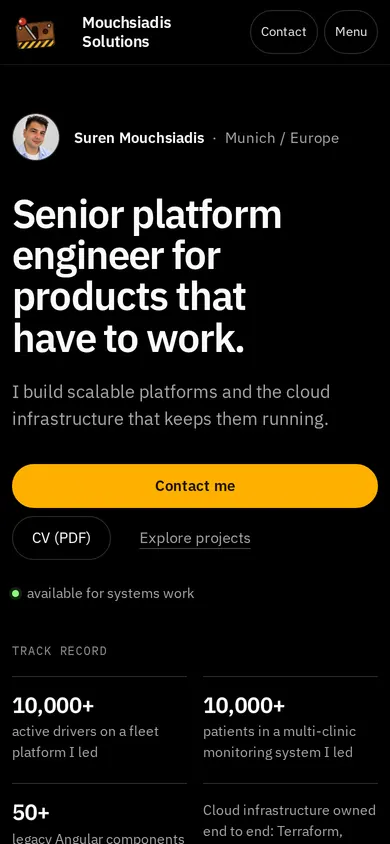
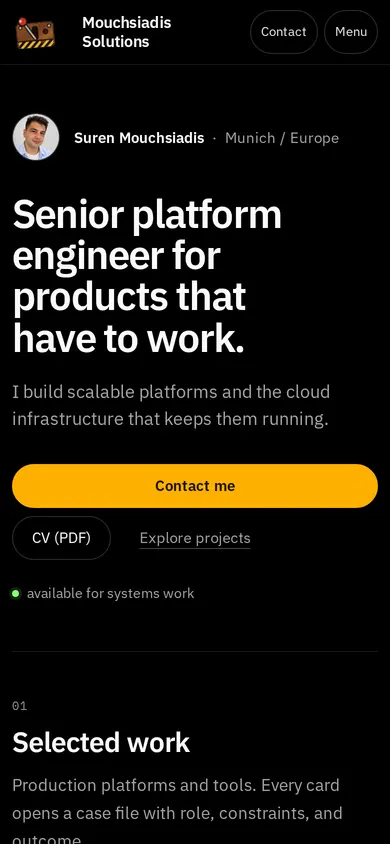
docs: record the hero removal, the terminal performance rule and fresh screenshots

Changed region(s): [[0.0308, 0.7701, 0.9538, 1.0], [0.2154, 0.7701, 0.2462, 0.8009]]

diff --git a/docs/visual-design.md b/docs/visual-design.md
@@ -41,7 +41,7 @@ This section supersedes the October direction wherever they conflict. The rest o
 
 - **Palette and type.** Pure black, `#e5e5e5` text and `#1c1c1c` hairlines. Amber appears only on the one primary action per view, and a small P1-green dot marks LIVE. Type is IBM Plex Sans 600 for headings and Plex Mono for labels and indices, so the Plex superfamily is the brand link between the views. Montserrat never loads in this view.
 - **Landing order.** One column of about 54rem:
-  1. hero: photo avatar, name and location, the English title headline, general line, actions, availability, track record as a 2×2 grid
+  1. hero: photo avatar, name and location, the English title headline, general line, actions, availability (the track record and direct email line were removed by the owner on 22 November 2026)
   2. Selected work as rows (16:10 screenshot or the record's pixel glyph, title, LIVE, eyebrow, summary, stack)
   3. open source
   4. Games rows
@@ -63,7 +63,19 @@ This section supersedes the October direction wherever they conflict. The rest o
    - Every panel and case file opens with a real prompt (`suren@ms-86:~$ ls ~/work --live`, `cat ypay/README.md`) and a blinking block cursor. The prompts are `aria-hidden`.
    - The status line is now a tmux bar: session, window list following the active panel, LIVE count, and a Munich clock.
 4. **Background texture.** Film grain (an SVG turbulence data URI) and a faint aperture-grille stripe.
-5. **Refresh and boot.** A slow 9s refresh band runs behind the content. The power-on now opens as a dot, then a line, then a bloom (760ms), and the status bar shows a three-part POST line for about 1.4s.
+5. **Boot.** The power-on opens as a dot, then a line, then a bloom (760ms), and the status bar shows a three-part POST line for about 1.4s.
+
+**Performance fix (22 November 2026).**
+
+- The first release also had a slow refresh band, which animated `background-position` across the glass. In a Chrome trace it re-rasterized the whole screen every frame: the idle terminal ran at 14 fps, and more than 90% of frames dropped during scroll, card hover, drag and tab switches. The band was removed.
+- The tab-switch "phosphor wake" now fades opacity instead of animating `filter: brightness`.
+- In the fitted console, the panel area has its own compositor layer.
+- Measured on a local build at 1440×900:
+  - idle at 60 fps;
+  - 0 dropped frames during scroll, tab switches and hover;
+  - 1 dropped frame during a card drag;
+  - raster work about 10× lower.
+- `tests/performance.spec.ts` guards against regressions. The rule is that decorative motion animates only `transform` or `opacity` on small elements.
 
 **References for this pass.**
 
@@ -84,9 +96,9 @@ This section supersedes the October direction wherever they conflict. The rest o
 
 **Verified, 22 November 2026.**
 
-- `npm run validate`: 0 Astro/TypeScript errors, 297 browser tests passed, 0 failed.
+- `npm run validate`: 0 Astro/TypeScript errors, 298 browser tests passed, 0 failed (after the performance fix and track-record removal).
 - The existing suite runs in the terminal view through `tests/terminal-view.json`. `tests/simple-view.spec.ts` covers the default view, the switch, `?view=`, axe, a 6-viewport × 4-locale fit and primary matrix, the case-file images and the lightbox.
-- Budgets: JS 8.9 KB, CSS 25.8 KB and inline art 8.1 KB gzipped.
+- Budgets: JS 8.9 KB, CSS 25.4 KB and inline art 8.1 KB gzipped.
 - Screenshots of both views and the new case files are in [design-audit/simple-view](./design-audit/simple-view/).
 - New native-review copy (ru/de/ge): the switch tag and hint, the case-file headings, all six new records, the Last Standard alt text and the architecture captions.
 
@@ -130,7 +142,7 @@ Earlier references from the October 2026 audit still apply: [Practical Typograph
 - **Direction.** Three concepts were built as mockups at 1440×900 and 390×844: A "Phosphor Restore", B "Instrument Console" (keycaps, dot-matrix registers, a 1.48 KB WebGL scope) and C "Field Dossier" (greenbar printouts, index cards, manila folders). The owner chose A. B's WebGL scope was not shipped.
 - **The hand.** The four-up tilted row cannot return without breaking two real fixes: the 13rem reader lane and the 230px minimum card width. At 1440 the fitted deck shows three cards per row and at 1120–1280 two. The tilt returns as a static alternating fan (±0.8° and a 6px stagger) when motion is allowed. Cards never overlap, never move under the pointer, and lie flat under reduced motion.
 - **Headline.** The owner approved "Senior platform engineer for products that have to work." The job title stays in English in every locale (owner decision); only the rest of the sentence is translated, and Georgian uses a colon form.
-- **Body and track record.** One general line ("I build scalable platforms and the cloud infrastructure that keeps them running.") replaces a project-specific description; no single project is described in depth in the hero. A short "Track record" list follows the actions. It comes from `impact` in `src/lib/content.ts`, where each line names the experience entries that state its facts, and a test checks every figure against them.
+- **Body and track record.** *(Track record and direct email line removed by the owner on 22 November 2026; the rest stands.)* One general line ("I build scalable platforms and the cloud infrastructure that keeps them running.") replaces a project-specific description; no single project is described in depth in the hero. A short "Track record" list follows the actions. It comes from `impact` in `src/lib/content.ts`, where each line names the experience entries that state its facts, and a test checks every figure against them.
 - **Proof.** The first-viewport proof is the Work records with `live: true` (YPay, YDesk, NeoPoints, Grindlike, Raid Signal), linked to their case files, with the count derived from the content model. Only the count carries LIVE; rows do not repeat it. On phones each row shows art and title, so the intro and track record follow within the first scroll. The owner preferred projects to numbers, so the 10,000+ driver figure stays in Experience.
 - **Facts.** Location and availability are owner-confirmed and live in `profile` in `src/lib/content.ts`. No testimonials, client logos, response times or booking links are shown; none were provided.
 - **Contact.** Every email action uses one address and a subject that names its origin. The address is always visible as text beside a copy button, because `mailto:` can do nothing without a mail client.
@@ -151,7 +163,7 @@ Earlier references from the October 2026 audit still apply: [Practical Typograph
 ## Fast Path and Conversion
 
 - **One primary per view.** The hero has one filled amber action, "Contact me". "CV (PDF)" is outlined and "Explore projects" is a link. The header "Contact" key and Backlog Breaker's "Start" stay secondary. The contact panel's primary is "Email me" and a case file's primary is "Email me about {project}".
-- **Hero.** It names Suren and the location (from `profile`), states the approved positioning in one general line, offers the actions, lists the track record, and shows live proof. A direct email line names every engagement ("projects, contract work, consulting or a role") and shows the address. The owner-confirmed availability sits beneath as a status line.
+- **Hero.** It names Suren and the location (from `profile`), states the approved positioning in one general line, offers the actions and shows live proof. The owner-confirmed availability sits beneath as a status line. (The track record and the direct email line were removed on 22 November 2026; the address stays in Contact and the case-file calls to action.)
 - **Contact panel.** An "Email me" action with a subject, the visible address with a copy button, a short "useful to include" list, then LinkedIn, GitHub and the CV.
 - **Case files.** The header shows evidence: cover, number, suit, LIVE, outcome, role and stack. Its product and source links are secondary, plus a link down to the call to action. Previous/next navigation follows the body. The file always ends with the contextual call to action.
 - **Open-source showcase.** One "Open case file" button per project; the product and source links are quiet inline links.

diff --git a/docs/architecture.md b/docs/architecture.md
@@ -24,8 +24,8 @@ The site has four public concerns:
 ## Source Files
 
 - `src/pages/[locale]/index.astro`
-  One landing DOM for both views. In the Simple view the console chrome, hero proof, card hand and game are hidden; the hero, track record, Selected work rows (`WorkRows.astro`), Games rows, Experience, Notes and Contact read as one column. In the terminal view it is the landing page inside the CRT glass, described below. Each panel opens with a decorative `TermPrompt` and the status line is a tmux bar (window list, LIVE count, Munich clock) driven by `terminal.ts`.
-  Terminal view: The hero names Suren and his location, states the positioning and offers one primary action (Contact), CV and Explore. Then come live proof (the `live: true` Work records), a direct email line and the owner-confirmed availability, followed by the open-source showcase and Backlog Breaker. The page also holds the Work and Games card decks, experience, notes, and contact. Contact has an email action with a subject, the visible address and a copy button, a "useful to include" list, and the CV. Desktop panels: Overview, Work, Games, Experience, Notes, Contact. `#cv` is an alias for Contact.
+  One landing DOM for both views. In the Simple view the console chrome, hero proof, card hand and game are hidden; the hero (headline, general line, actions, availability), Selected work rows (`WorkRows.astro`), Games rows, Experience, Notes and Contact read as one column. In the terminal view it is the landing page inside the CRT glass, described below. Each panel opens with a decorative `TermPrompt` and the status line is a tmux bar (window list, LIVE count, Munich clock) driven by `terminal.ts`.
+  Terminal view: The hero names Suren and his location, states the positioning and offers one primary action (Contact), CV and Explore. Then come live proof (the `live: true` Work records) and the owner-confirmed availability, followed by the open-source showcase and Backlog Breaker. The page also holds the Work and Games card decks, experience, notes, and contact. Contact has an email action with a subject, the visible address and a copy button, a "useful to include" list, and the CV. Desktop panels: Overview, Work, Games, Experience, Notes, Contact. `#cv` is an alias for Contact.
 - `src/pages/[locale]/work/[slug].astro`
   Case file per record. The header shows the numbered kicker, eyebrow, status and outcome; product and source links are secondary. Then the hero screenshot (`ShotFrame`), "At a glance" (role, status, year, stack, links), overview, problem and constraints, what was built, the architecture flow (`ArchDiagram`), collection parts (`parts`, for SurikMods), the gallery (`Gallery`, a `<dialog>` lightbox from `src/scripts/gallery.ts`), the full stack and previous/next case. The hero shot also becomes the page's `og:image`. It always ends with a contextual call to action (`Email me about {project}` with a subject, CV, visible address).
 - `src/components/ViewSwitch.astro`

diff --git a/AGENTS.md b/AGENTS.md
@@ -19,9 +19,9 @@ These are standing owner decisions. Do not reverse them without asking.
 
 **Copy**
 - Job titles stay in **English in every locale**, for example "Senior platform engineer".
-- The hero stays general: one line about what Suren builds, plus the track record from `impact`. Project depth belongs in case files.
+- The hero stays general: one line about what Suren builds, the actions and the availability line. Project depth belongs in case files.
+- The hero has **no track record list and no "write directly" email line** (owner decision, 22 November 2026). Do not bring them back in either view or any locale; the email address lives in Contact and the case-file calls to action.
 - Every claim must be backed by the product, its source, the project's own docs or owner-provided facts. No testimonials, client logos, response times or new availability wording without the owner.
-- `impact` lines cite experience slugs, and a test checks every figure.
 
 **LIVE**
 - `live: true` means the system runs in production. YLead is LIVE by owner decision.
@@ -61,6 +61,10 @@ These are standing owner decisions. Do not reverse them without asking.
   - `simple.css` is the Simple view, scoped to `:root[data-view="simple"]`. Keep it as flat selectors with no CSS nesting, because Vite ships nesting as written.
   - `present.css` holds the case-file pieces shared by both views.
   - `switch.css` styles the lever. `crt.css` holds the terminal realism layers.
+
+## Performance rule
+
+Decorative motion may animate only `transform` or `opacity`, on small elements. Never animate `background-position`, `filter`, gradients or other paint properties over the CRT glass or the panels. A moving refresh band did that in November 2026 and dropped the terminal to about 14 fps. In the fitted console, `.terminal-console__content` keeps its own compositor layer (`crt.css`), so panel switches and scrolling never repaint the glass. `tests/performance.spec.ts` traces an idle terminal and fails if it repaints. When you add motion, check it with a Chrome trace.
 
 ## Commands
 

diff --git a/docs/content-model.md b/docs/content-model.md
@@ -21,9 +21,9 @@ The content model only stores portfolio data. Visual palette choices live in `sr
 
 `profile` holds owner-confirmed facts shown in the hero: `location` and `availability`, localized for all four locales. Interface copy in `src/lib/i18n.ts` may label them (for example "status"), but claims about Suren live here. Do not add testimonials, client logos, response times or availability wording without the owner's confirmation.
 
-### Track Record
+### No Track Record
 
-`impact` holds the short results list shown in the hero. Each entry has an optional localized `figure`, localized `text`, and `sources`: the `experiences` slugs whose summary or details state the fact. Add a line only when its source entry already states it; `tests/conversion.spec.ts` checks every figure against its sources.
+The hero used to show a short results list (`impact`) and a "write directly" email line. The owner removed both on 22 November 2026, and their data and copy were deleted. Do not reintroduce them; results belong in the experience records and case files.
 
 ### Hero Proof
 
